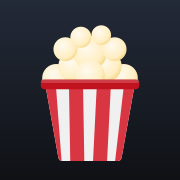
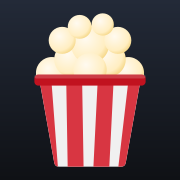
Add files via upload

Changed region(s): [[0.1667, 0.0556, 0.8333, 0.9444], [0.4167, 0.3333, 0.4722, 0.3611]]

diff --git a/index.html b/index.html
@@ -32,7 +32,8 @@ header{position:sticky;top:0;z-index:10;background:rgba(15,17,21,.85);backdrop-f
 .bar{max-width:1100px;margin:0 auto;display:flex;gap:10px;align-items:center}
 .logo{font-weight:700;font-size:17px;white-space:nowrap;letter-spacing:-.2px}
 .logo{display:flex;align-items:center;gap:8px}
-.logo img{width:30px;height:30px;border-radius:8px}
+.logo img{width:40px;height:40px;border-radius:10px}
+.logo .lt{font-size:19px}
 .search{flex:1;position:relative}
 @media(max-width:480px){.logo .lt{display:none}}
 .search input{width:100%;background:var(--bg3);border:1px solid var(--line);border-radius:999px;padding:10px 38px 10px 40px;color:var(--tx);font-size:15px;outline:none;transition:border-color .15s}
@@ -93,6 +94,11 @@ h2{font-size:18px;margin:6px 0 12px;letter-spacing:-.2px}
 .provs{display:flex;flex-wrap:wrap;gap:10px}
 .prov{display:flex;align-items:center;gap:10px;background:var(--bg2);border:1px solid var(--line);border-radius:12px;padding:7px 12px 7px 7px}
 .prov img{width:38px;height:38px;border-radius:9px}
+a.prov{cursor:pointer;transition:border-color .12s,transform .12s,background .12s}
+a.prov:hover{border-color:var(--tx3);transform:translateY(-1px)}
+a.prov:active{transform:scale(.97)}
+.prov .go{color:var(--tx3);font-size:13px;margin-left:2px}
+.prov.mine .go{color:var(--ok)}
 .prov .n{font-size:14px;font-weight:500}
 .prov.mine{border-color:var(--ok);background:rgba(34,197,94,.08)}
 .prov.mine .n::after{content:" ✓";color:var(--ok)}
@@ -592,7 +598,7 @@ async function viewDetail(type, id) {
         </div>
       </div>
       ${d.overview ? `<p class="overview">${esc(d.overview)}</p>` : ""}
-      ${providersHTML(reg)}
+      ${providersHTML(reg, title)}
       <div id="saga"></div>
       <div id="related"></div>`;
 
@@ -618,14 +624,32 @@ async function viewDetail(type, id) {
   } catch (e) { if (e.name !== "AbortError") app.innerHTML = errorBox(e); }
 }
 
-function providersHTML(reg) {
+/* link per aprire il titolo sulla piattaforma (ricerca del titolo nel servizio) */
+const PROVIDER_LINKS = [
+  [/netflix/i, q => `https://www.netflix.com/search?q=${q}`],
+  [/prime video|amazon prime/i, q => `https://www.primevideo.com/search?phrase=${q}`],
+  [/amazon video/i, q => `https://www.amazon.it/s?k=${q}&i=instant-video`],
+  [/disney/i, q => `https://www.disneyplus.com/search?q=${q}`],
+  [/apple tv/i, q => `https://tv.apple.com/it/search?term=${q}`],
+  [/raiplay/i, q => `https://www.raiplay.it/ricerca.html?q=${q}`],
+  [/google play/i, q => `https://play.google.com/store/search?q=${q}&c=movies`],
+  [/youtube/i, q => `https://www.youtube.com/results?search_query=${q}`]
+];
+function providerLink(p, title, fallback) {
+  const rule = PROVIDER_LINKS.find(([re]) => re.test(p.provider_name));
+  return rule ? rule[1](encodeURIComponent(title)) : fallback;
+}
+function providersHTML(reg, title = "") {
   if (!reg) return `<div class="sec"><div class="no">Al momento non risulta disponibile su nessuna piattaforma in Italia.</div></div>`;
   const uniq = arr => [...new Map((arr || []).map(p => [p.provider_id, p])).values()].sort((a, b) => (a.display_priority ?? 99) - (b.display_priority ?? 99));
   const included = uniq([...(reg.flatrate || []), ...(reg.free || []), ...(reg.ads || [])]);
   const mine = included.filter(p => state.subs.has(p.provider_id));
   const others = included.filter(p => !state.subs.has(p.provider_id));
   const rent = uniq(reg.rent), buy = uniq(reg.buy);
-  const pill = p => `<div class="prov ${state.subs.has(p.provider_id) ? "mine" : ""}"><img src="${img(p.logo_path, "w92")}" alt=""><span class="n">${esc(p.provider_name)}</span></div>`;
+  const pill = p => {
+    const href = providerLink(p, title, reg.link);
+    return `<a class="prov ${state.subs.has(p.provider_id) ? "mine" : ""}" ${href ? `href="${esc(href)}" target="_blank" rel="noopener"` : ""} title="Apri su ${esc(p.provider_name)}"><img src="${img(p.logo_path, "w92")}" alt=""><span class="n">${esc(p.provider_name)}</span><span class="go">↗</span></a>`;
+  };
   const sec = (t, arr) => arr.length ? `<div class="sec"><h3>${t}</h3><div class="provs">${arr.map(pill).join("")}</div></div>` : "";
 
   let head = "";
@@ -748,7 +772,7 @@ function route() {
   if ((parts[0] === "movie" || parts[0] === "tv") && parts[1]) return viewDetail(parts[0], parts[1]);
   if (parts[0] === "cerca" && parts[1]) {
     const q = decodeURIComponent(parts[1]);
-    if (qIn.value !== q) qIn.value = q;
+    if (qIn.value.trim() !== q) qIn.value = q;
     sbox.classList.toggle("has", !!q);
     return viewSearch(q);
   }
